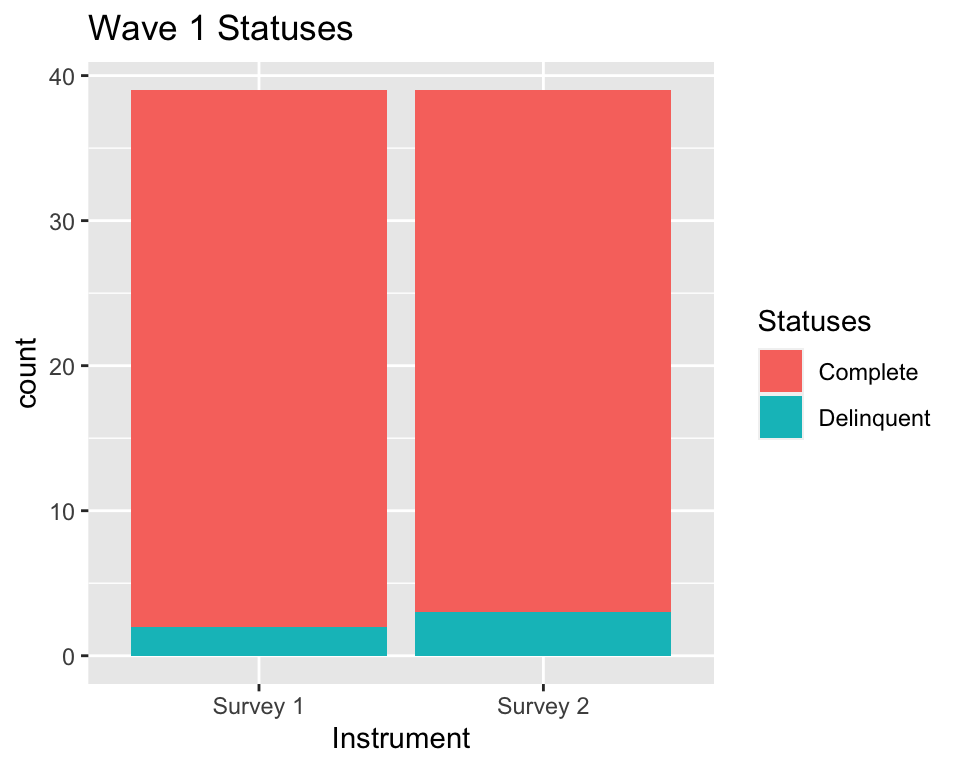
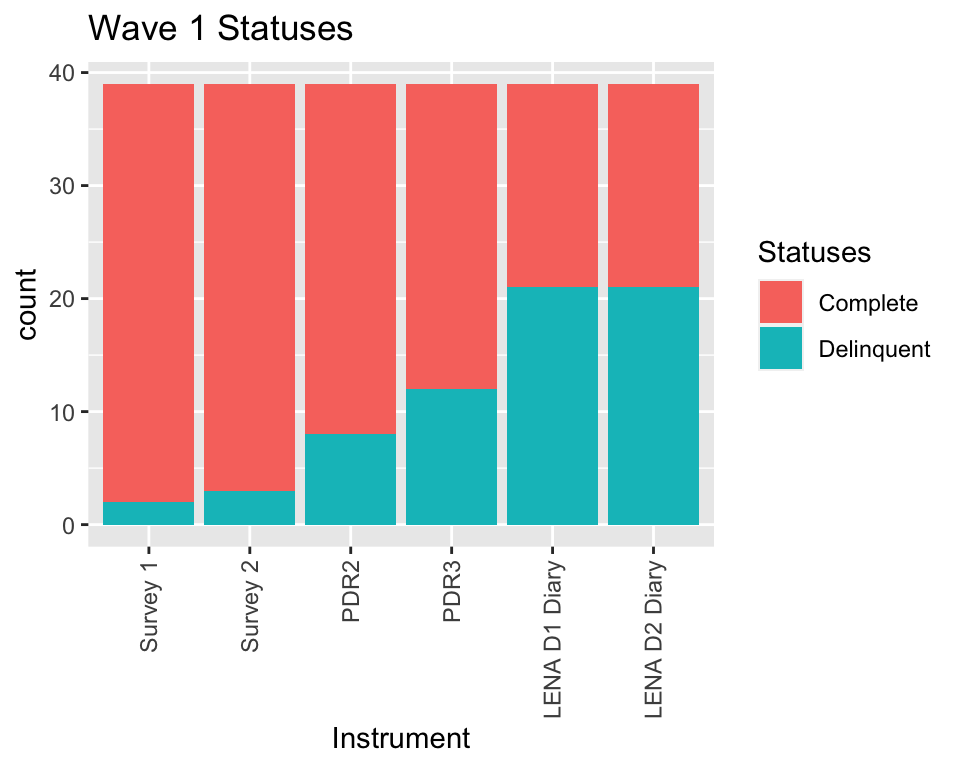
Working Wave 1 Chart

diff --git a/_site/enrollment.html b/_site/enrollment.html
@@ -758,6 +758,7 @@ LENA Day 2 Diary
 </tr>
 </tbody>
 </table>
+<img src="enrollment_files/figure-html/SEAL%20New%20DataFrame-1.png" width="480" />
 <table class=" lightable-minimal" style="font-family: &quot;Trebuchet MS&quot;, verdana, sans-serif; margin-left: auto; margin-right: auto;">
 <thead>
 <tr>
@@ -772,6 +773,50 @@ Delinquent
 </tr>
 </thead>
 <tbody>
+<tr>
+<td style="text-align:left;">
+LENAD1DiaryStatus
+</td>
+<td style="text-align:right;">
+18
+</td>
+<td style="text-align:right;">
+21
+</td>
+</tr>
+<tr>
+<td style="text-align:left;">
+LENAD2DiaryStatus
+</td>
+<td style="text-align:right;">
+18
+</td>
+<td style="text-align:right;">
+21
+</td>
+</tr>
+<tr>
+<td style="text-align:left;">
+PDR2Status
+</td>
+<td style="text-align:right;">
+31
+</td>
+<td style="text-align:right;">
+8
+</td>
+</tr>
+<tr>
+<td style="text-align:left;">
+PDR3Status
+</td>
+<td style="text-align:right;">
+27
+</td>
+<td style="text-align:right;">
+12
+</td>
+</tr>
 <tr>
 <td style="text-align:left;">
 Surv1Status
@@ -796,7 +841,6 @@ Surv2Status
 </tr>
 </tbody>
 </table>
-<p><img src="enrollment_files/figure-html/SEAL%20New%20DataFrame-1.png" width="480" /></p>
 </div>
 </div>
 
